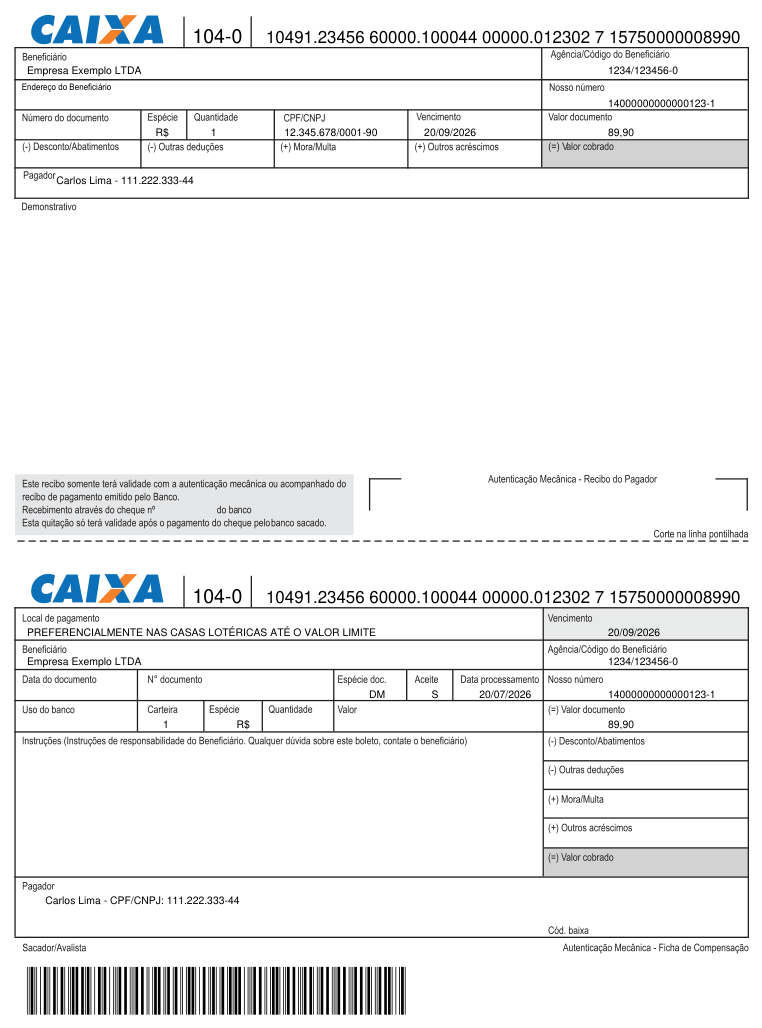
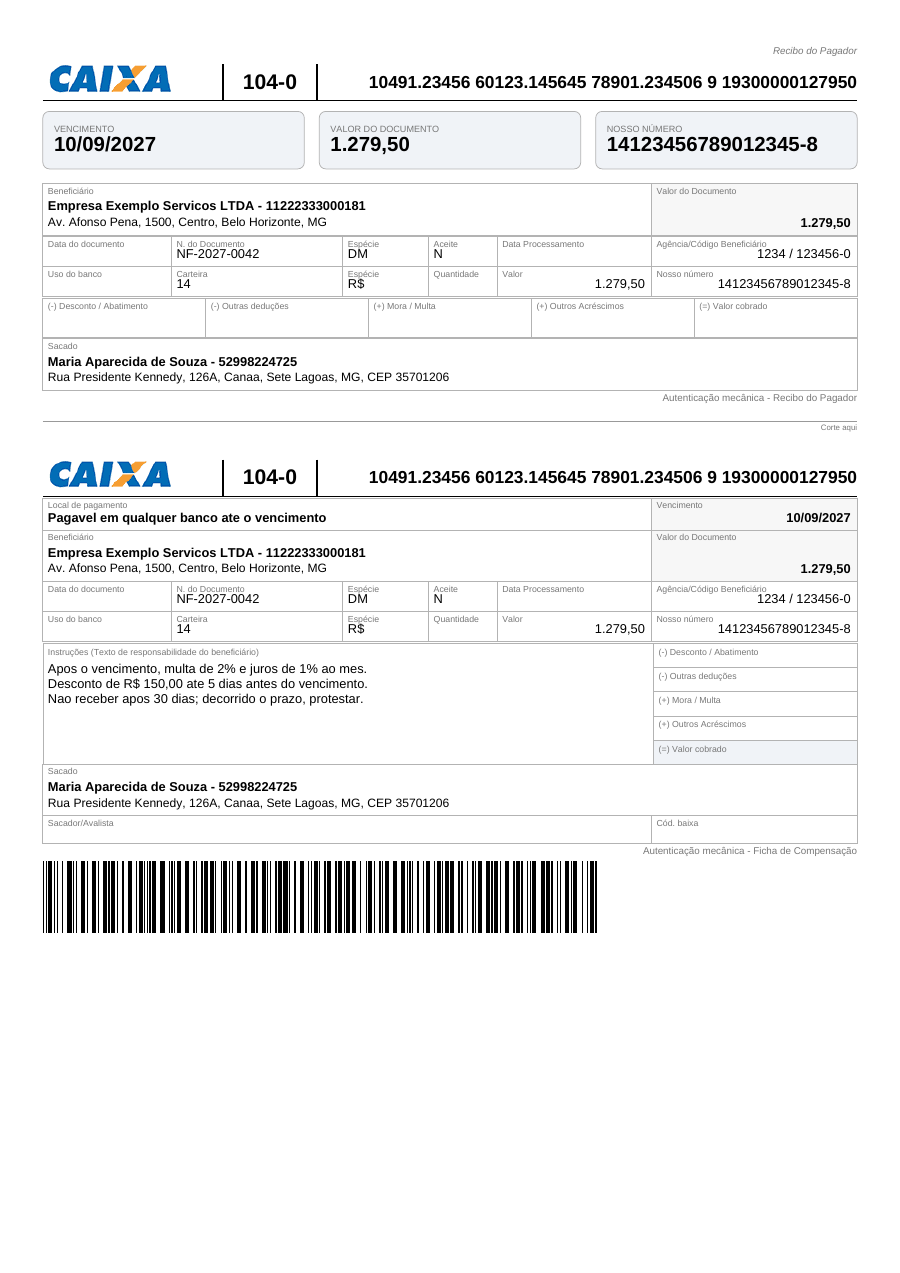
Regerar a galeria do README e dar-lhe um gerador
As oito imagens eram feitas à mão, uma vez, em tamanhos diferentes — 762px
umas, 1166px outras — e por isso envelheceram: a engine redesenhou o modelo
`moderno` e o README seguiu mostrando o desenho antigo, com a legenda
"exemplos reais gerados pela API". Agora saem de
`scripts/gerar-boletos-exemplo.py`, pelo mesmo caminho que a API usa, todas na
mesma largura. Refazer é um comando.

O README também não dizia que existem dois modelos. `template=moderno` e
`template=classico` saem da mesma chamada, a faixa de marca é opcional e só
existe no moderno, e a faixa de totalizadores FEBRABAN sai preenchida quando o
valor já é conhecido na emissão. Três imagens novas mostram os três casos lado
a lado, com os mesmos dados.

Os dois boletos de `docs/api/online-vs-offline.md` também estavam no desenho
antigo, e ali o texto imprime a linha digitável e o código de barras REAIS da
captura — uma imagem de payload qualquer contradiria o número logo acima dela.
O payload foi reconstruído a partir do campo livre publicado no documento
(Sicoob: carteira/agência/variação/conta/nosso número/parcela) e o gerador
**assere** a linha digitável antes de gravar: se a engine mudar o cálculo, ele
para em vez de publicar imagem que discorda do texto.

De passagem, três afirmações da tabela de stack que não valiam mais:
`ofxparse` está listado como a biblioteca de OFX e não é dependência do projeto
há tempo — quem lê extrato é a engine, v1 SGML e v2 XML; os providers online
[…]

diff --git a/scripts/gerar-boletos-exemplo.py b/scripts/gerar-boletos-exemplo.py
@@ -1,0 +1,182 @@
+#!/usr/bin/env python3
+"""Gera as imagens de boleto do README e da doc, pela API.
+
+    PYTHONPATH=gateway python scripts/gerar-boletos-exemplo.py
+
+As oito imagens da galeria eram feitas **à mão**, uma vez, em tamanhos
+diferentes (762px umas, 1166px outras). Por isso envelheceram: a engine
+redesenhou o modelo `moderno` e o README seguiu mostrando o desenho antigo,
+dizendo "exemplos reais gerados pela API". Com um gerador, refazer é um comando.
+
+Tudo passa por `app.core.pycob` — o mesmo caminho que a API usa. O que aparece
+na imagem é o que um cliente recebe; não há atalho para a engine.
+
+Requer `pdftoppm` (poppler-utils) para rasterizar.
+"""
+from __future__ import annotations
+
+import shutil
+import subprocess
+import sys
+import tempfile
+from pathlib import Path
+
+REPO = Path(__file__).resolve().parents[1]
+sys.path.insert(0, str(REPO / "gateway"))
+
+from app.core import pycob  # noqa: E402
+
+SAIDA = REPO / "docs" / "assets" / "boletos"
+SAIDA_DOCS = REPO / "docs" / "assets"
+LARGURA = 900  # px — uma medida só para a galeria inteira
+
+#: Dados de exemplo. Documento de teste e nomes fictícios: a imagem vai para um
+#: README público e boleto é instrumento de pagamento.
+BASE = {
+    "cedente": "Empresa Exemplo Servicos LTDA",
+    "documento_cedente": "11222333000181",
+    "cedente_endereco": "Av. Afonso Pena, 1500, Centro, Belo Horizonte, MG",
+    "sacado": "Maria Aparecida de Souza",
+    "sacado_documento": "52998224725",
+    "sacado_endereco": "Rua Presidente Kennedy, 126A, Canaa, Sete Lagoas, MG, CEP 35701206",
+    "numero_documento": "NF-2027-0042",
+    "valor": 1279.50,
+    "data_vencimento": "2027-09-10",
+    "especie_documento": "DM",
+    "aceite": "N",
+    "local_pagamento": "Pagavel em qualquer banco ate o vencimento",
+    "instrucoes": [
+        "Apos o vencimento, multa de 2% e juros de 1% ao mes.",
+        "Desconto de R$ 150,00 ate 5 dias antes do vencimento.",
+        "Nao receber apos 30 dias; decorrido o prazo, protestar.",
+    ],
+}
+
+#: Cada banco tem a sua conta — carteira, convênio e o tamanho do nosso número
+#: mudam por regra do banco, e `validar()` recusa o que não bate.
+CONTAS = {
+    "banco_brasil": {"agencia": "3073", "conta_corrente": "12345678",
+                     "convenio": "1234567", "carteira": "18", "nosso_numero": "1042"},
+    "itau": {"agencia": "0057", "conta_corrente": "12345", "carteira": "109",
+             "nosso_numero": "12345678"},
+    "santander": {"agencia": "1234", "conta_corrente": "123456", "carteira": "101",
+                  "convenio": "1234567", "nosso_numero": "123456789012"},
+    "caixa": {"agencia": "1234", "conta_corrente": "123456", "carteira": "14",
+              "convenio": "123456", "nosso_numero": "123456789012345"},
+    "banco_c6": {"agencia": "0001", "conta_corrente": "1234567", "carteira": "10",
+                 "convenio": "123456789012", "nosso_numero": "1234567890"},
+    "sicoob": {"agencia": "3069", "conta_corrente": "12345", "carteira": "1",
+               "convenio": "1234567", "variacao": "01", "nosso_numero": "1234567"},
+}
+
+FAIXA = {"logo_empresa": "EXEMPLO", "cor_marca": "1B4F8A",
+         "rodape_contato": "financeiro@exemplo.com.br  -  (31) 3333-0000"}
+ENCARGOS = {"desconto_abatimento": 150.00, "mora_multa": 8.00}
+BOLEPIX = {"chave_pix": "11222333000181", "txid": "PEDIDO000000000042"}
+
+
+def _dados(banco: str, **extra) -> dict:
+    return {**BASE, **CONTAS[banco], **extra}
+
+
+def _png(nome: str, pdf: bytes, pasta: Path | None = None) -> None:
+    """PDF -> PNG da primeira página, na largura da galeria."""
+    with tempfile.TemporaryDirectory() as tmp:
+        origem = Path(tmp) / "b.pdf"
+        origem.write_bytes(pdf)
+        subprocess.run(
+            ["pdftoppm", "-png", "-f", "1", "-l", "1", "-scale-to-x", str(LARGURA),
+             "-scale-to-y", "-1", str(origem), str(Path(tmp) / "saida")],
+            check=True, capture_output=True)
+        gerado = next(Path(tmp).glob("saida*.png"))
+        destino = (pasta or SAIDA) / f"{nome}.png"
+        shutil.copyfile(gerado, destino)
+        print(f"  {destino.relative_to(REPO)}  ({destino.stat().st_size // 1024} KB)")
+
+
+def main() -> int:
+    if shutil.which("pdftoppm") is None:
+        print("pdftoppm não encontrado — instale poppler-utils", file=sys.stderr)
+        return 1
+    SAIDA.mkdir(parents=True, exist_ok=True)
+
+    # Galeria por banco: o desenho padrão, que é o que a API entrega sem pedir nada.
+    for banco in ("banco_brasil", "itau", "santander", "caixa", "banco_c6", "sicoob"):
+        pdf, _ = pycob.emitir_boleto(banco, _dados(banco))
+        _png(banco, pdf)
+
+    # Bolepix: o QR entra a partir da chave, e o copia-e-cola volta na resposta.
+    pdf, info = pycob.emitir_boleto("banco_brasil", _dados("banco_brasil", **BOLEPIX))
+    _png("bolepix", pdf)
+    assert info["pix_copia_cola"], "Bolepix sem copia-e-cola"
+
+    # Carnê: 3 vias por A4.
+    parcelas = [
+        {**_dados("banco_brasil"), "bank": "banco_brasil",
+         "nosso_numero": str(1050 + i), "numero_documento": f"NF-2027-0042/{i + 1}",
+         "data_vencimento": f"2027-{9 + i:02d}-10",
+         "instrucoes": [f"Parcela {i + 1} de 3 do contrato CTR-2027-0042."]}
+        for i in range(3)
+    ]
+    pdf, _ = pycob.pdf_multi(parcelas, template="carne")
+    _png("carne", pdf)
+
+    # Os dois modelos, lado a lado, com os mesmos dados — é a comparação que a
+    # galeria por banco não mostra, porque todos saem no padrão.
+    for modelo in ("moderno", "classico"):
+        pdf, _ = pycob.emitir_boleto(
+            "banco_brasil", _dados("banco_brasil", **ENCARGOS, **BOLEPIX), modelo)
+        _png(f"modelo-{modelo}", pdf)
+
+    # Faixa de marca: só no `moderno`, e é o que o `classico` não tem.
+    pdf, _ = pycob.emitir_boleto(
+        "banco_brasil", _dados("banco_brasil", **FAIXA, **ENCARGOS, **BOLEPIX))
+    _png("faixa-de-marca", pdf)
+
+    _comparativo()
+    print(f"\n{len(list(SAIDA.glob('*.png')))} imagens em {SAIDA.relative_to(REPO)}")
+    return 0
+
+
+#: Os dois boletos de `docs/api/online-vs-offline.md`. Ali o texto imprime a
+#: linha digitável e o código de barras REAIS da captura, então a imagem não
+#: pode sair de um payload qualquer — ela contradiria o número logo acima dela.
+#: O payload abaixo foi reconstruído a partir do campo livre publicado no
+#: documento, e a asserção confere: se a engine mudar o cálculo, o gerador para
+#: aqui em vez de publicar uma imagem que discorda do texto.
+COMPARATIVO = {
+    "boleto-c6-offline": (
+        "banco_c6",
+        {"agencia": "0001", "conta_corrente": "1", "convenio": "100",
+         "carteira": "10", "nosso_numero": "12345678"},
+        "33690.00009 00001.000017 23456.781030 9 15700000125000"),
+    "boleto-sicoob-offline": (
+        "sicoob",
+        {"agencia": "4327", "conta_corrente": "0229385", "convenio": "0229385",
+         "carteira": "1", "variacao": "01", "nosso_numero": "7890"},
+        "75691.43279 01022.938508 00789.000015 6 15700000125000"),
+}
+
+CEDENTE_COMPARATIVO = {
+    "valor": 1250.00, "data_vencimento": "2026-09-15",
+    "cedente": "Aurora Servicos Empresariais LTDA",
+    "documento_cedente": "47816329000199",
+    "sacado": "Vitoria Gabriela Emanuelly Ramos",
+    "sacado_documento": "77044362109",
+}
+
+
+def _comparativo() -> None:
+    for nome, (banco, conta, linha) in COMPARATIVO.items():
+        dados = {**CEDENTE_COMPARATIVO, **conta}
+        pdf, info = pycob.emitir_boleto(banco, dados)
+        if info["linha_digitavel"] != linha:
+            raise SystemExit(
+                f"{nome}: a linha digitável mudou e o texto de "
+                f"online-vs-offline.md ficaria errado.\n"
+                f"  documento: {linha}\n  agora:     {info['linha_digitavel']}")
+        _png(nome, pdf, SAIDA_DOCS)
+
+
+if __name__ == "__main__":
+    sys.exit(main())

diff --git a/README.md b/README.md
@@ -267,6 +267,37 @@ Exemplos **reais gerados pela API** (engine pyCobrança, Python puro), um por ba
   </sub>
 </p>
 
+### Dois modelos e a faixa de marca
+
+O `template` escolhe o desenho, e **os dois saem da mesma chamada** — só muda o
+parâmetro. A faixa de marca é opcional e existe só no `moderno`: pedi-la no
+`classico` responde `400` em vez de devolver um boleto sem marca nenhuma.
+
+<p align="center">
+  <img src="./docs/assets/boletos/modelo-moderno.png" width="32%" alt="Boleto no modelo moderno: chips de vencimento, valor e nosso número, QR do Bolepix e faixa de totalizadores preenchida" />
+  <img src="./docs/assets/boletos/modelo-classico.png" width="32%" alt="Boleto no modelo clássico, layout tradicional da ficha de compensação" />
+  <img src="./docs/assets/boletos/faixa-de-marca.png" width="32%" alt="Boleto moderno com faixa de marca: selo, nome do beneficiário, marca d'água e rodapé de contato" />
+</p>
+
+<p align="center">
+  <sub>
+    <code>template=moderno</code> (padrão) · <code>template=classico</code> ·
+    <strong>faixa de marca</strong> (<code>logo_empresa</code>, <code>cor_marca</code>,
+    <code>marca_dagua</code>, <code>rodape_contato</code>)
+  </sub>
+</p>
+
+A **faixa de totalizadores** (FEBRABAN) sai preenchida quando o valor já é
+conhecido na emissão — `desconto_abatimento`, `outras_deducoes`, `mora_multa`,
+`outros_acrescimos` — e o `(=) Valor cobrado` é somado. Sem nenhum deles a faixa
+fica em branco, que é o padrão do boleto comum: quem a preenche é o caixa, no
+ato do pagamento.
+
+> As imagens acima são geradas por
+> [`scripts/gerar-boletos-exemplo.py`](./scripts/gerar-boletos-exemplo.py), que
+> passa pelo mesmo caminho da API. Refazer é um comando —
+> `PYTHONPATH=gateway python scripts/gerar-boletos-exemplo.py`.
+
 > 💡 Todos acima saíram de uma chamada `GET /api/boleto?bank=<banco>&type=pdf&data=<json>` na
 > [demo ao vivo](https://cobranca-api-sq67.onrender.com/api/docs) — instância de
 > demonstração no plano gratuito do Render. A URL vem do nome do serviço e **não é
@@ -317,6 +348,7 @@ Se você precisa **gerar boletos**, **processar arquivos CNAB** ou **conciliar p
 - **Lote assíncrono** — `POST /jobs/boletos` e `/jobs/cnab/remessas`: 202 + `job_id`, falha por item isolada, artefatos com `sha256` e webhook de conclusão
 - **Credenciais zero-knowledge** — token `bapi_`; o servidor não decifra sem ele
 - **Carnê 3-vias** — N parcelas em PDF A4
+- **Dois modelos de boleto** — `moderno` (padrão) e `classico`, mesma chamada; faixa de marca opcional (logo, cor, marca d'água, rodapé) e faixa de totalizadores FEBRABAN com o valor cobrado somado
 - **Swagger UI** — interativo em `/docs` (gateway) e `/api/docs` (offline)
 - **Docker ready** — imagem única, deploy em 1 minuto no Render, Railway ou qualquer cloud
 
@@ -491,11 +523,11 @@ Detalhes e variáveis de ambiente no [guia de deploy](https://maxwbh.github.io/c
 | Componente | Tecnologia |
 |-----------|-----------|
 | API | Python 3.12 · FastAPI · Uvicorn |
-| Engine offline | [pyCobrança](https://github.com/Maxwbh/pyCobranca) 1.0.2 (Python puro) |
+| Engine offline | [pyCobrança](https://github.com/Maxwbh/pyCobranca) (Python puro) — boleto, CNAB, OFX e Pix EMV |
 | PDF | ReportLab (via pyCobrança) — sem GhostScript |
-| Providers online | C6 Bank · Sicoob · Banco Inter (OAuth2 + mTLS) |
-| OFX | `ofxparse` |
-| Testes | pytest · 387 testes + regressão Postman (128 requests, cobertura de endpoint verificada no build) |
+| Providers online | C6 Bank · Sicoob · Banco Inter · Itaú (OAuth2 + mTLS) |
+| OFX | pyCobrança (v1 SGML e v2 XML) — sem dependência externa |
+| Testes | pytest · 864 testes + regressão Postman (133 requests, cobertura de endpoint verificada no build) |
 | Docs | OpenAPI 3.0/3.1 · Swagger UI |
 | Container | Docker · python:3.12-slim |
 
